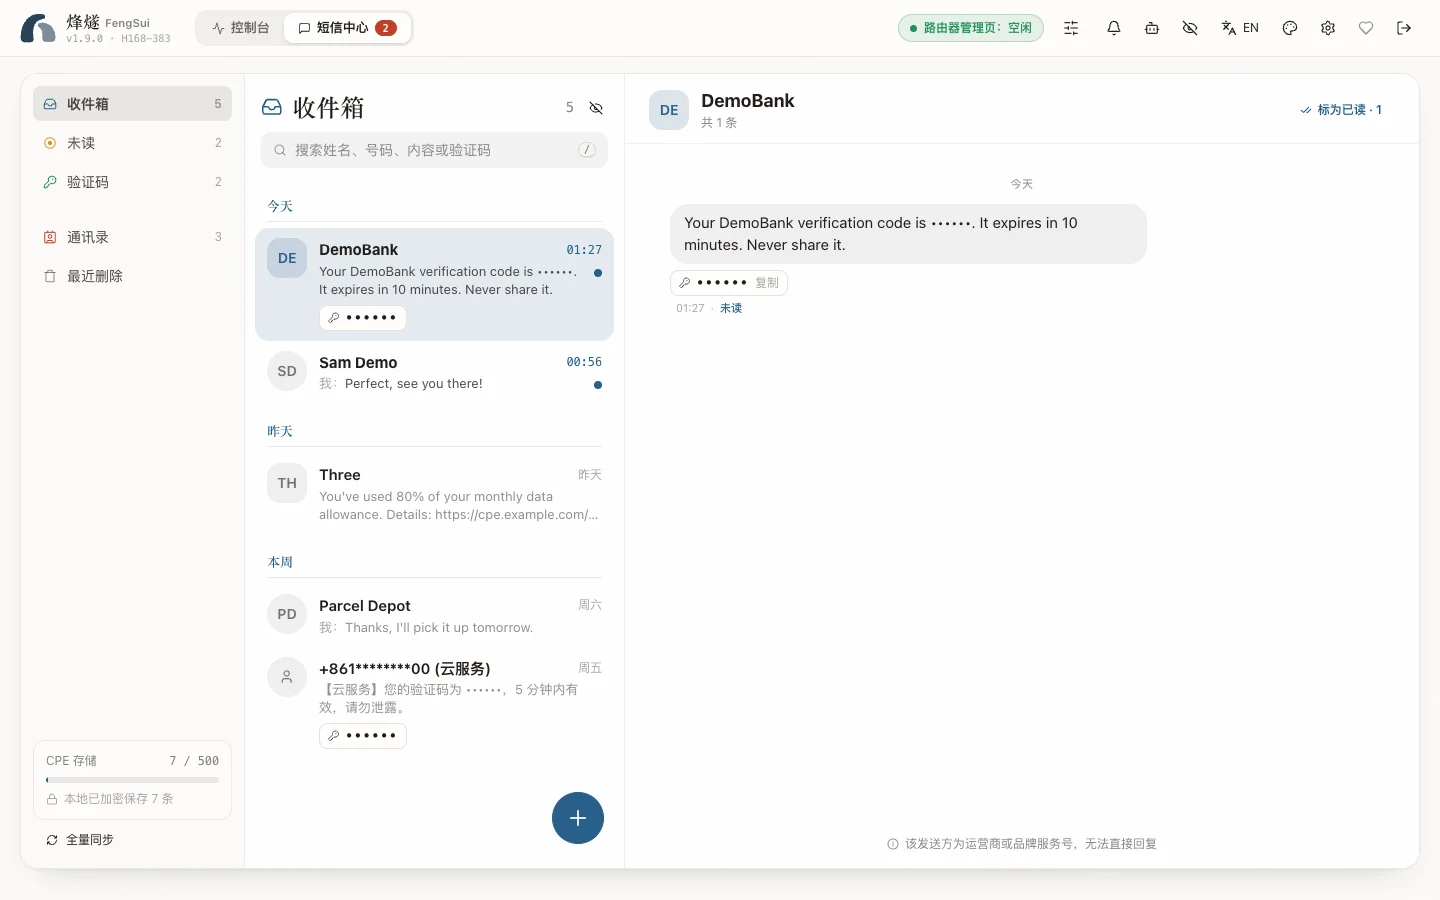
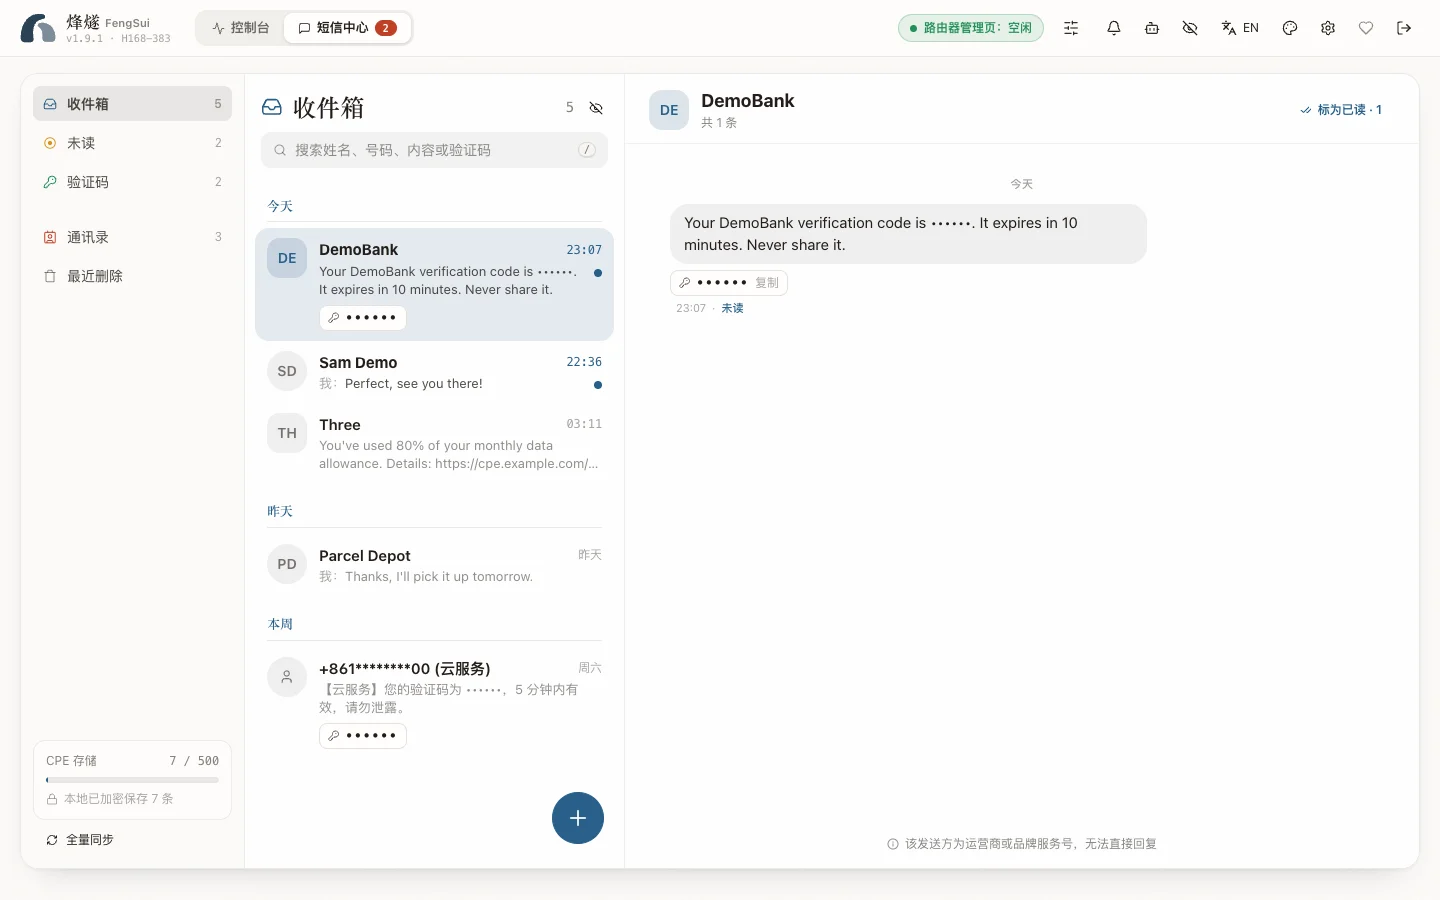
release: v1.9.1
Pausing the connection to the router for a while, under Settings →
Router; the 3-minute rollback putting back the 5G bands and the
network mode as well, running on Tozed and FiberHome routers, and
ending when the router is another one; the fixes of the check of
every brand against its interface notes and public implementations,
with a 4G cell lock on ZTE's zWRT routers; and what AI agents are told
fitting any router. Version files, the changelog section and the
screenshots retaken on this version.

Changed region(s): [[0.1875, 0.4667, 0.4062, 0.7156]]

diff --git a/src/version.ts b/src/version.ts
@@ -1,2 +1,2 @@
 /** Release version reported by `GET /api/health` and the web dashboard; kept equal to package.json. */
-export const FENGSUI_VERSION = "1.9.0";
+export const FENGSUI_VERSION = "1.9.1";

diff --git a/CHANGELOG.md b/CHANGELOG.md
@@ -4,10 +4,17 @@ All notable changes to 烽燧 FengSui (`cpe-dash`). Versions follow [Semantic Ve
 
 ## [Unreleased]
 
+## [1.9.1] — 2026-11-16
+
+### Highlights
+- **Pause the connection to the router.** Many of these routers allow one admin session, so the router's own page shuts you out, or signs you out, while FengSui keeps signing in. Settings → Router now starts with **Pause the connection**: for 15 minutes to 2 hours FengSui does not sign in to the router or send it anything, and then it carries on by itself.
+- **A change that cuts the internet is put back whole, and only on the router it was made on.** The 3-minute rollback now writes back the 5G bands and the network mode a band lock changed, not the 4G bands alone; it runs on Tozed and FiberHome routers, where it never did; and it ends, without a write, when FengSui is connected to another router meanwhile.
+- **Every brand checked again against its interface notes and public implementations.** The check found a dozen places where a lock or a setting was written or read back in another form than the router's: ZTE's MC888, MC8020 and U60 Pro, zWRT routers, Fibocom modules on OpenWrt, NRadio and TP-Link Deco logins, ZTE's SMS listing. All are fixed, and zWRT routers gain a 4G cell lock.
+- **AI agents get the right picture on any router.** What the MCP server tells an agent no longer names the Huawei H168-383 whichever router is connected, and on other brands the `lock_band` tool takes 5G bands, as the console does.
+
 ### Added
 - **Pause the connection to the router.** Many of these routers allow one admin session, so the router's own page shuts you out, or signs you out, while FengSui keeps signing in. Settings → Router now has **Pause the connection**: for 15 minutes to 2 hours FengSui does not sign in to the router or send it anything, the dashboard keeps its last readings, and changes to the router are refused with `409 ROUTER_PAUSED`. It resumes by itself, also after a restart, or when you press Resume now. It cannot begin while FengSui still watches a change it may have to put back. For scripts there are `POST /api/session/pause` and `POST /api/session/resume`.
 - **4G cell lock on ZTE's zWRT routers.** The U60 Pro, G5 and U50 series and their kin can now lock a 4G cell as well as a 5G one, with the form the community's ZTE script uses; an unlock takes it off. One project found the G5 TS refusing it, which its row says.
-
 - **ZTE cell locks say when they take effect.** On ZTE's goform routers a cell lock, and its removal, takes effect once the router restarts; on zWRT routers a removed cell lock does once the network mode is switched or the router restarts. FengSui does neither for you, so the cell lock and unlock confirmations, Settings → Device and Supported devices now say so.
 - **A row for Pinsu routers in Supported devices.** Pinsu's interface names no model, so FengSui calls every Pinsu router "Pinsu" and no report could match the table's named models. The Pinsu table now has a "Pinsu" row for all of them: a device report is registered there and turns its cells into ✓, and Settings → Device shows that row.
 - **ZTE zWRT routers say they keep one admin session.** A new login there signs out whoever is on the router's own page, and FengSui signs in every 5 seconds, so Supported devices, Settings → Device and the Other models and brands page now say so, and to pause the connection before using that page. ZTE's goform routers refuse a second login instead, and FengSui steps aside as before.
@@ -36,6 +43,13 @@ All notable changes to 烽燧 FengSui (`cpe-dash`). Versions follow [Semantic Ve
 - **The page behind a dialog scrolled along.** Scrolling over the controls drawer, the settings or any other dialog, past its end or outside its box, scrolled the dashboard behind it. Dialogs now keep their scroll to themselves.
 - **A ZTE MC888 or MC8020 could refuse to open its developer options before a lock.** FengSui sent that login without the signature every other write carries, which ZTE's notes and the community's script both include. It is now signed like the rest.
 - **A ZTE page whose configuration spelled its password switch differently could get the password in the wrong form.** FengSui now reads the switch with spaces or quotes around its value, and sends no password where it cannot tell which form the page wants.
+
+### Upgrading
+- Nothing to change in `.env` or `docker-compose.yml`. On an H168-383 the requests FengSui sends are the same.
+- **On a Tozed or FiberHome router, the 3-minute rollback now works**, and so does self-healing's redial if you turned it on: a lock or a change of the network mode, the operator, the SIM slot or the access point that cuts the internet is put back there after upgrading. Before, nothing happened.
+- **On a ZTE zWRT router, two band lock mixes are refused where they would change more than asked** ("every 4G band, 5G as it is" and "these 4G bands, every 5G band"): the interface can only reset every band and cell lock at once, so FengSui says so before sending anything.
+- A script that writes through the REST API may meet two new answers, both `409` and both meaning that nothing was sent: `ROUTER_PAUSED` (the connection is paused) and `CONNECTION_CHANGED` (a connection to another brand's router was saved while the write waited). `schedulerStatus.mode` can now be `paused`, the event stream has `session:pause`, and there are two new alert codes, `CONNECTION_PAUSED` and `ROLLBACK_WATCH_ENDED`.
+- An AI agent reads new instructions from the MCP server, and on a router of another brand its `lock_band` tool now takes `nrBands`.
 
 ## [1.9.0] — 2026-11-16
 

diff --git a/docs/dev/api.md b/docs/dev/api.md
@@ -162,7 +162,7 @@ export interface ApiErrorEnvelope {
 类型定义以源码为准：[`HealthResponse`](../../src/api-contract.ts)。下面是这些类型原先在本文里的字段说明（原注释，逐条保留）：
 
 - **`HealthResponse`**
-  - `version`：当前为 "1.9.0"
+  - `version`：当前为 "1.9.1"
 
 #### `POST /api/setup/login`（免鉴权，仅限尚无控制台密码时）与 `POST /api/auth/reset`（免鉴权，重置码）
 ```ts
